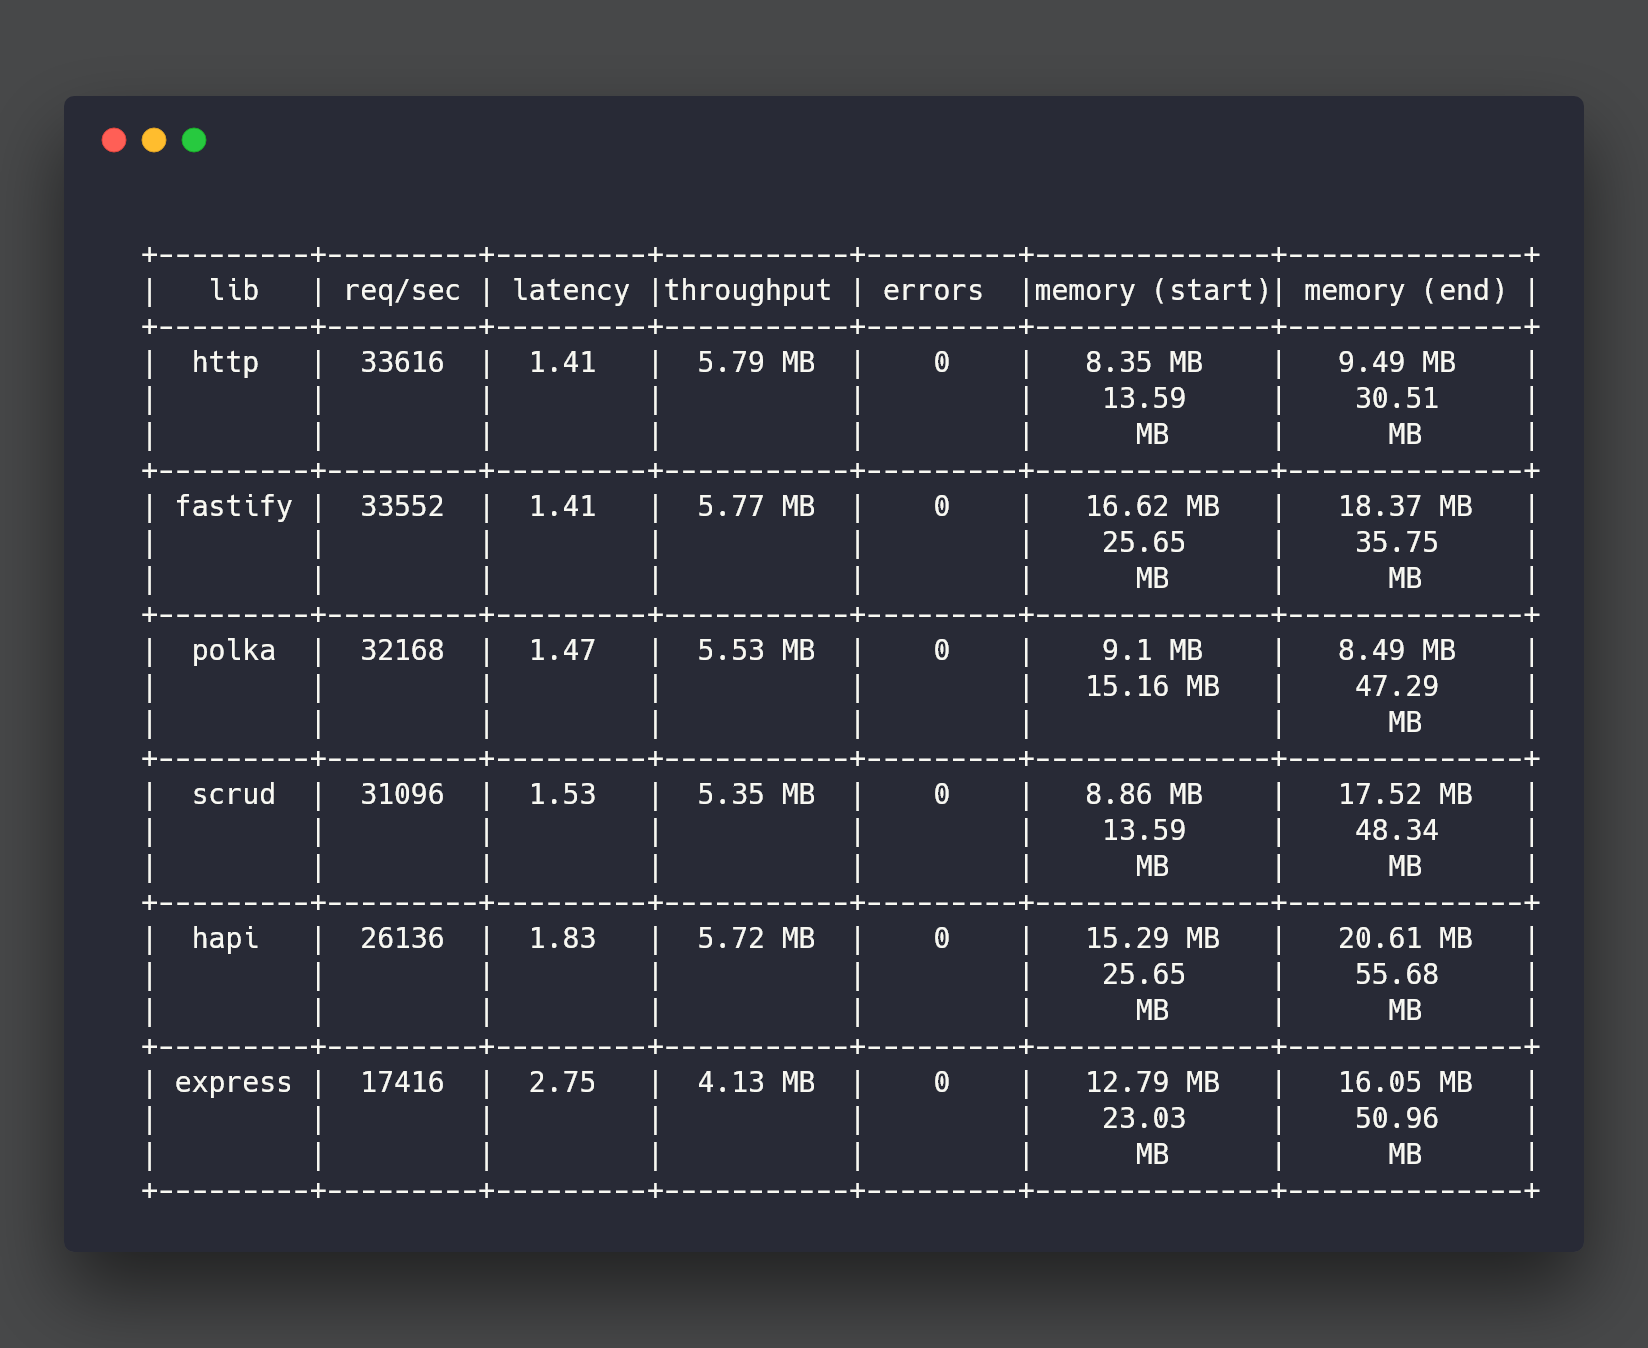
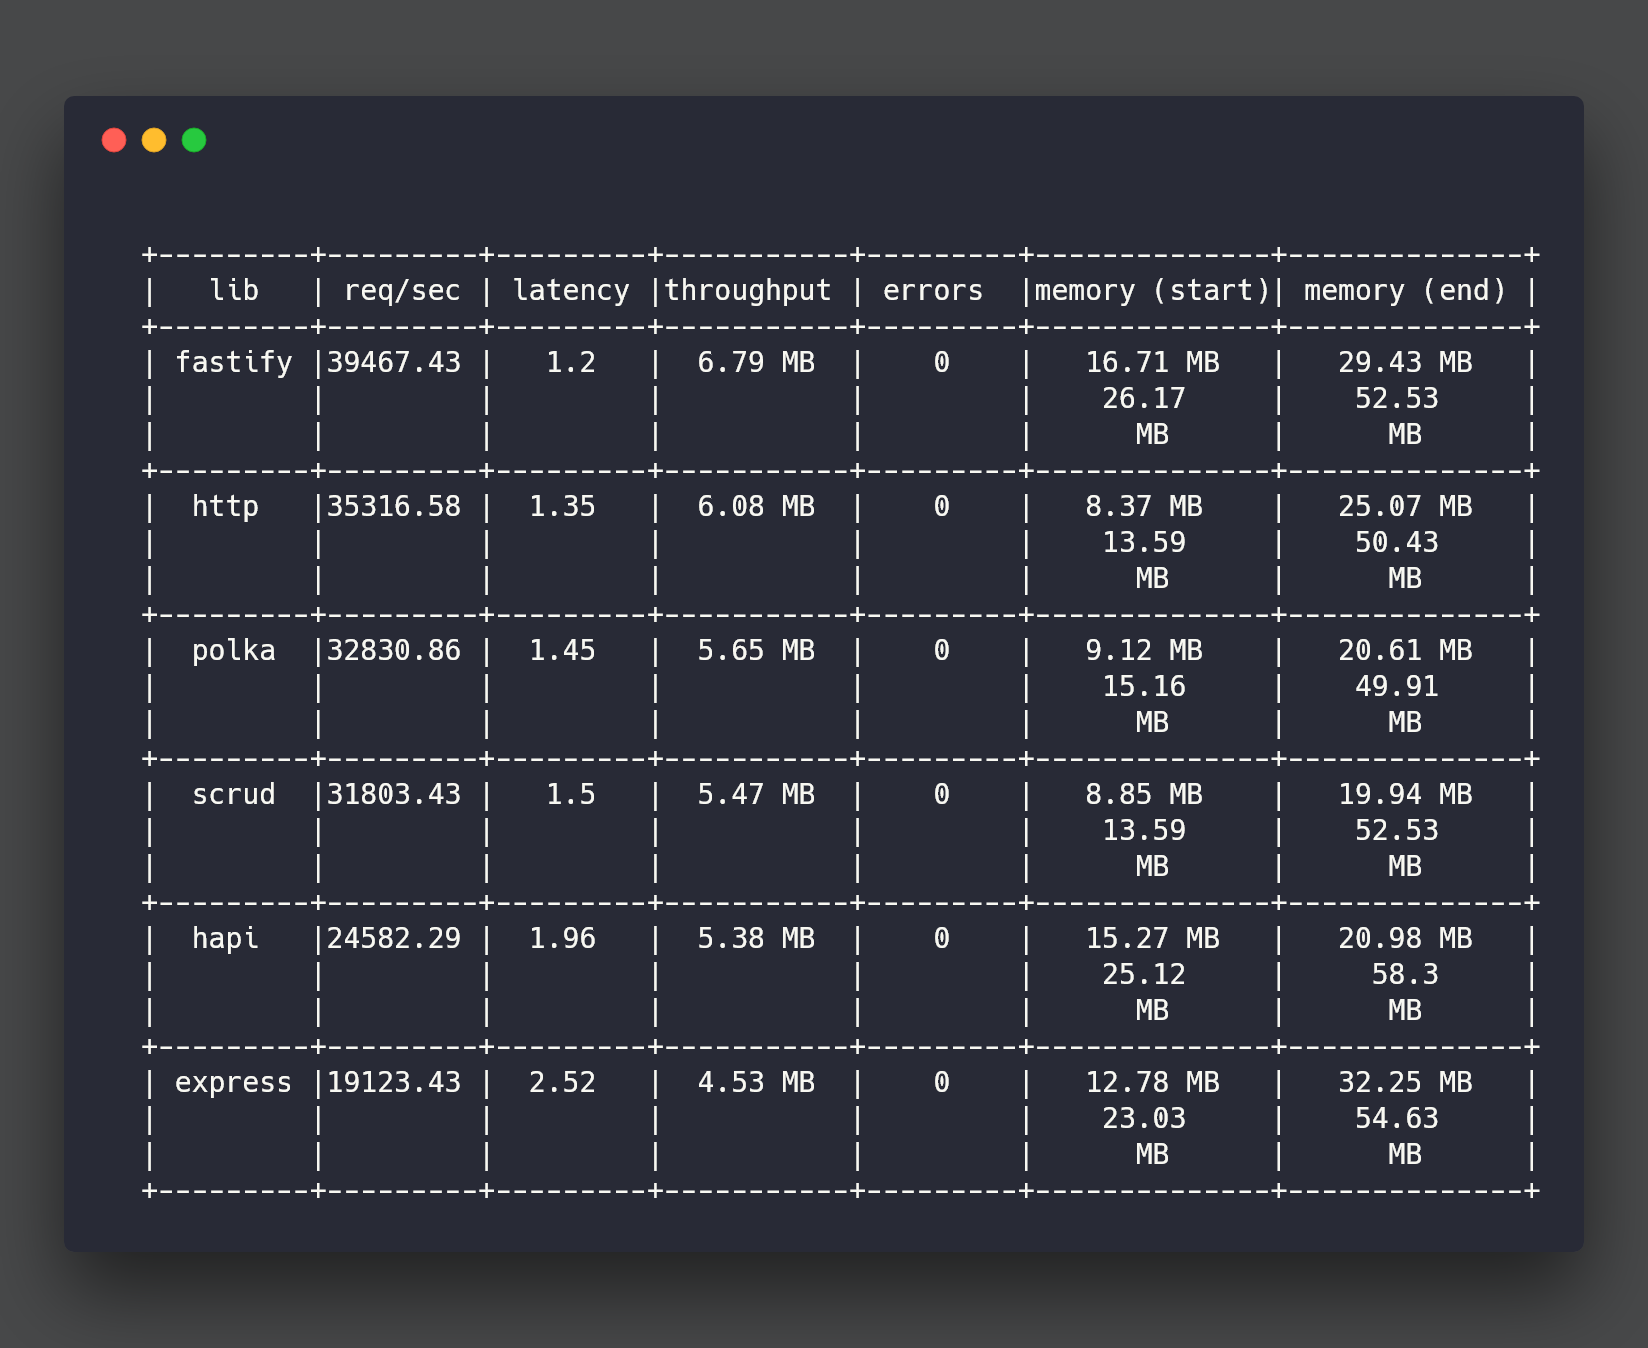
Set benchmark run times back to what they were

diff --git a/bench/index.js b/bench/index.js
@@ -6,8 +6,8 @@ const { writeFileSync } = require('fs')
 const { get } = require('axios')
 const autocannon = require('autocannon')
 const table = require('tty-table')
-const warmupSec = 1
-const runSec = 1
+const warmupSec = 3
+const runSec = 7
 const ports = {
   http: 3010,
   fastify: 3011,
